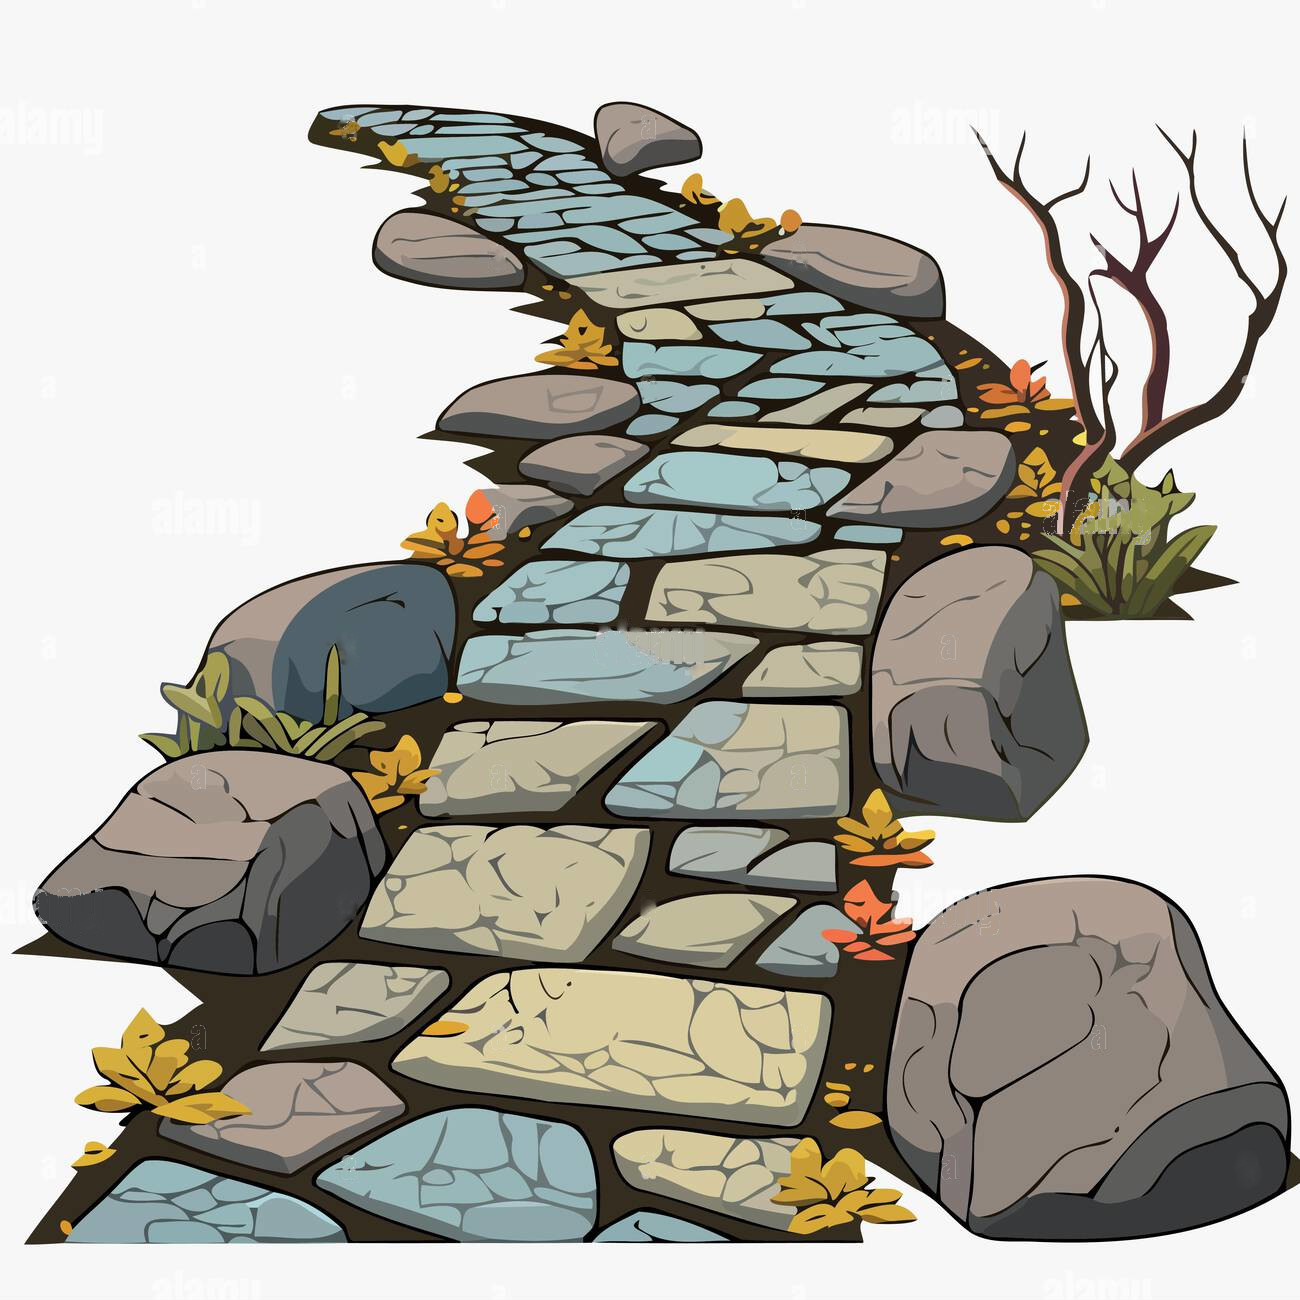
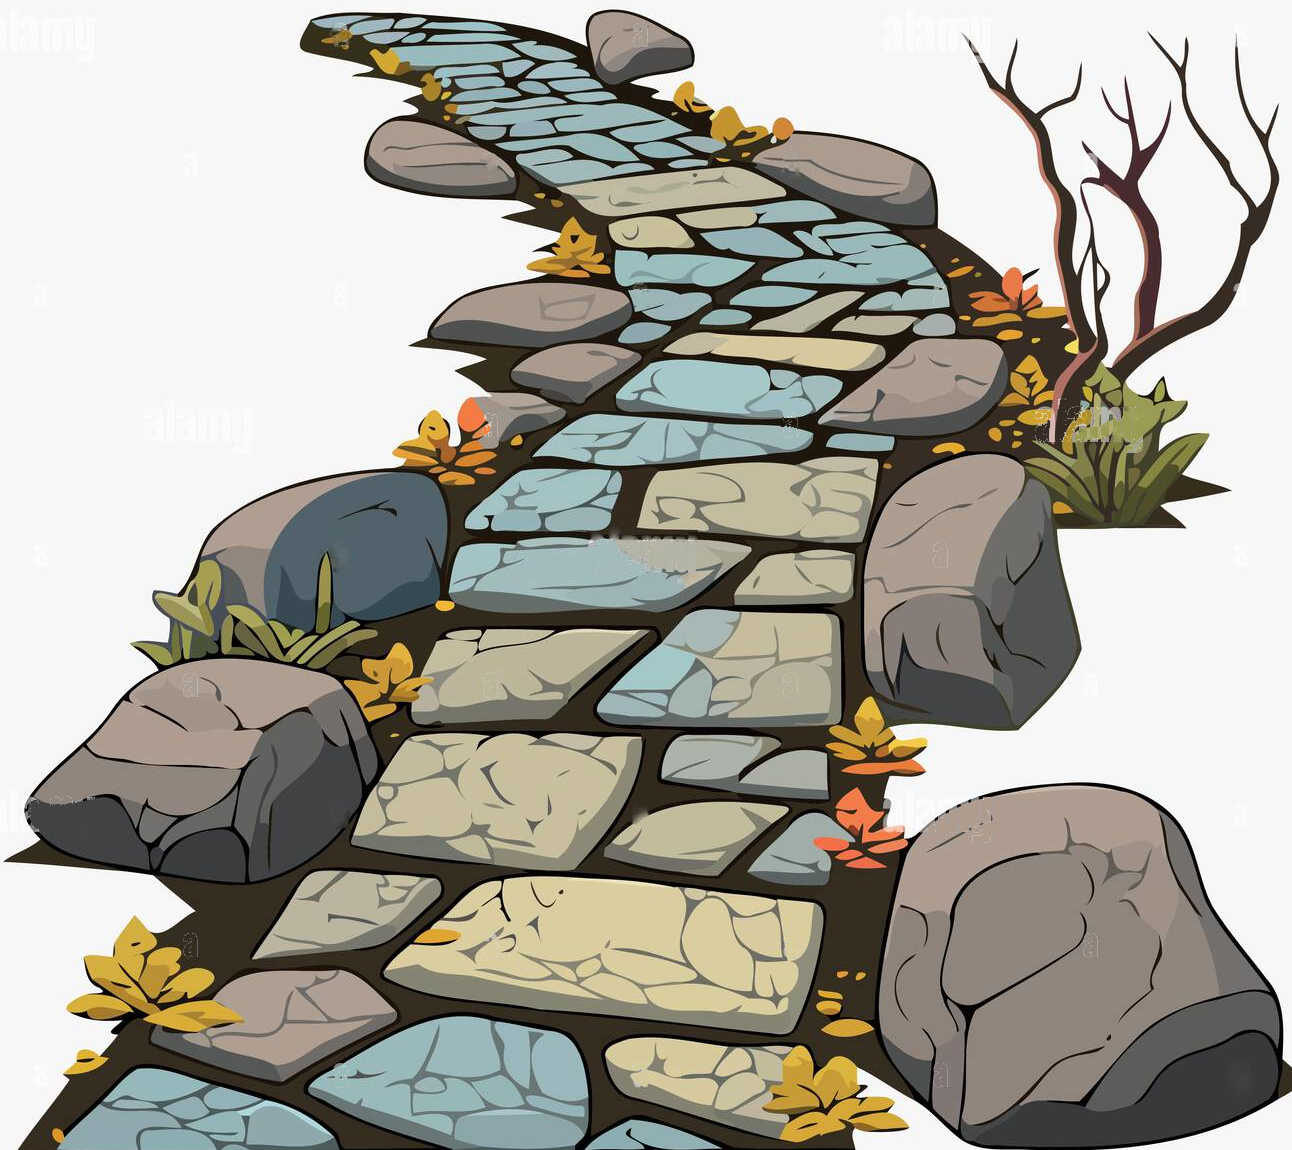
initial commit

diff --git a/index.html b/index.html
@@ -16,11 +16,12 @@
     src: url("MartianMono-Variable.ttf");}
   body {
     background-image: url("cartoon_path.jpg");
-    background-size: auto 100%;
+    background-size: 100% 100%;
     background-repeat: no-repeat;
     background-attachment: fixed;}
   img {padding: 5px;}
   h1 {
+    font-style: italic;
     margin-left: 75px;
     /*text-shadow: 2px 2px white;}*/
     text-shadow: -2px -2px 0 #fff, 2px -2px 0 #fff, -2px 2px 0 #fff, 2px 2px 0 #fff;} 
